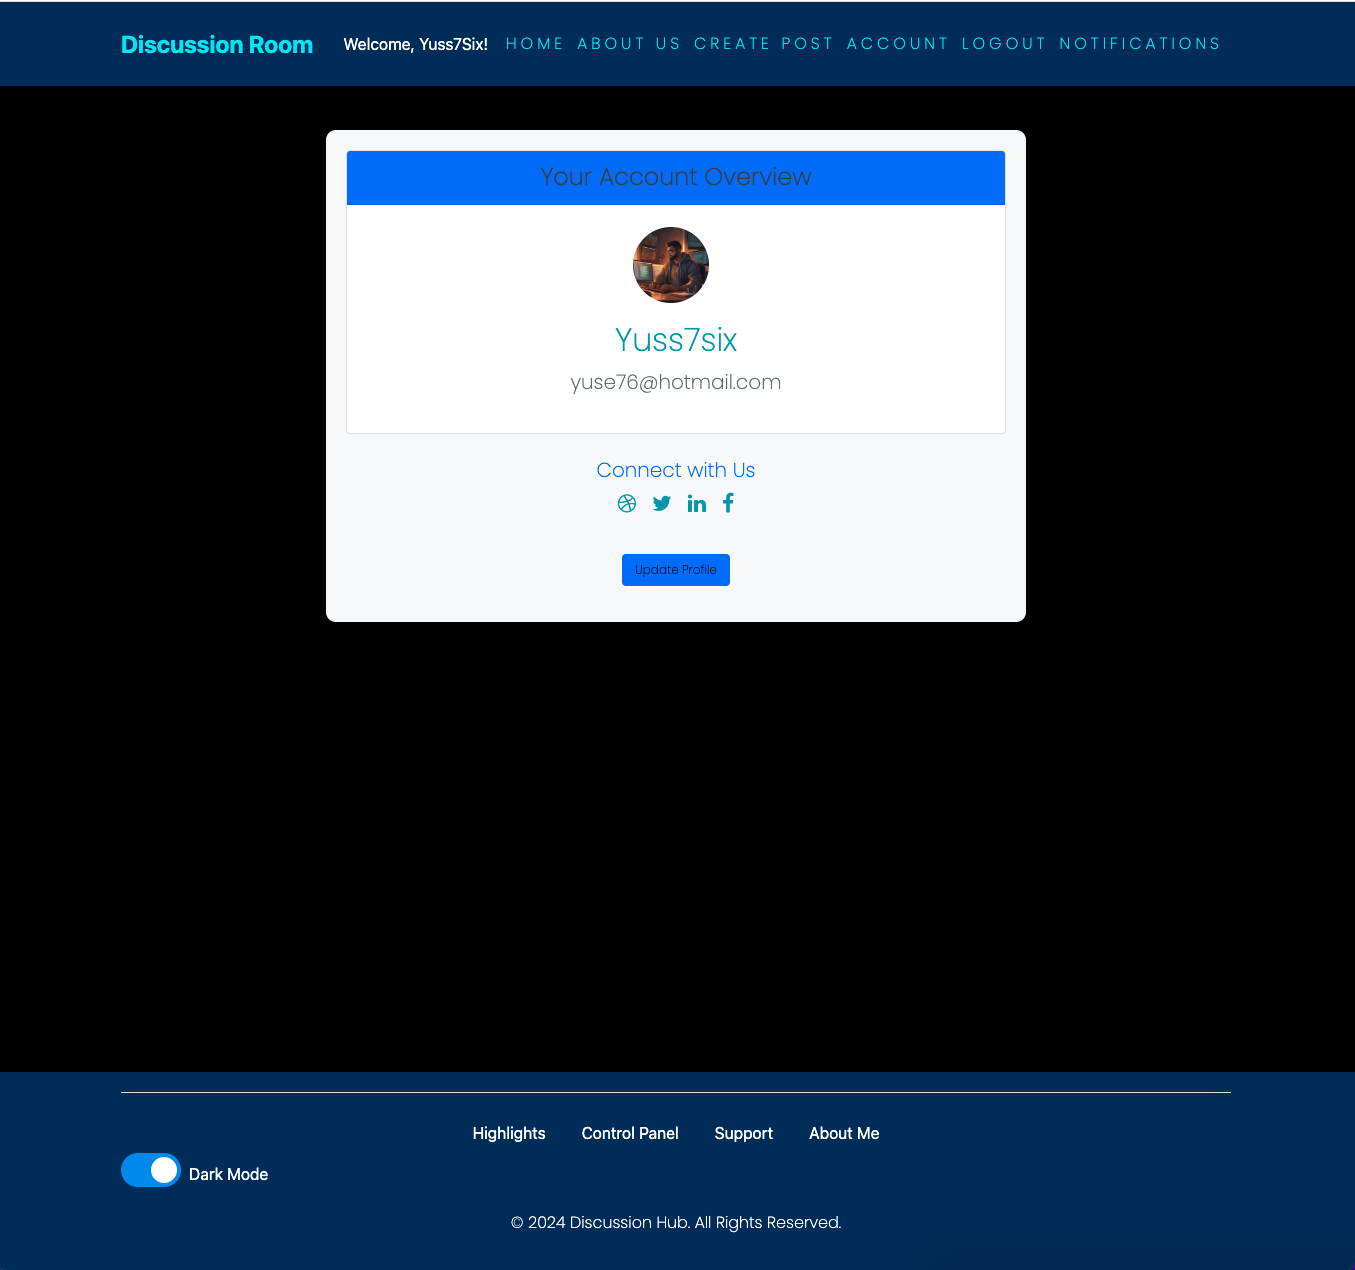
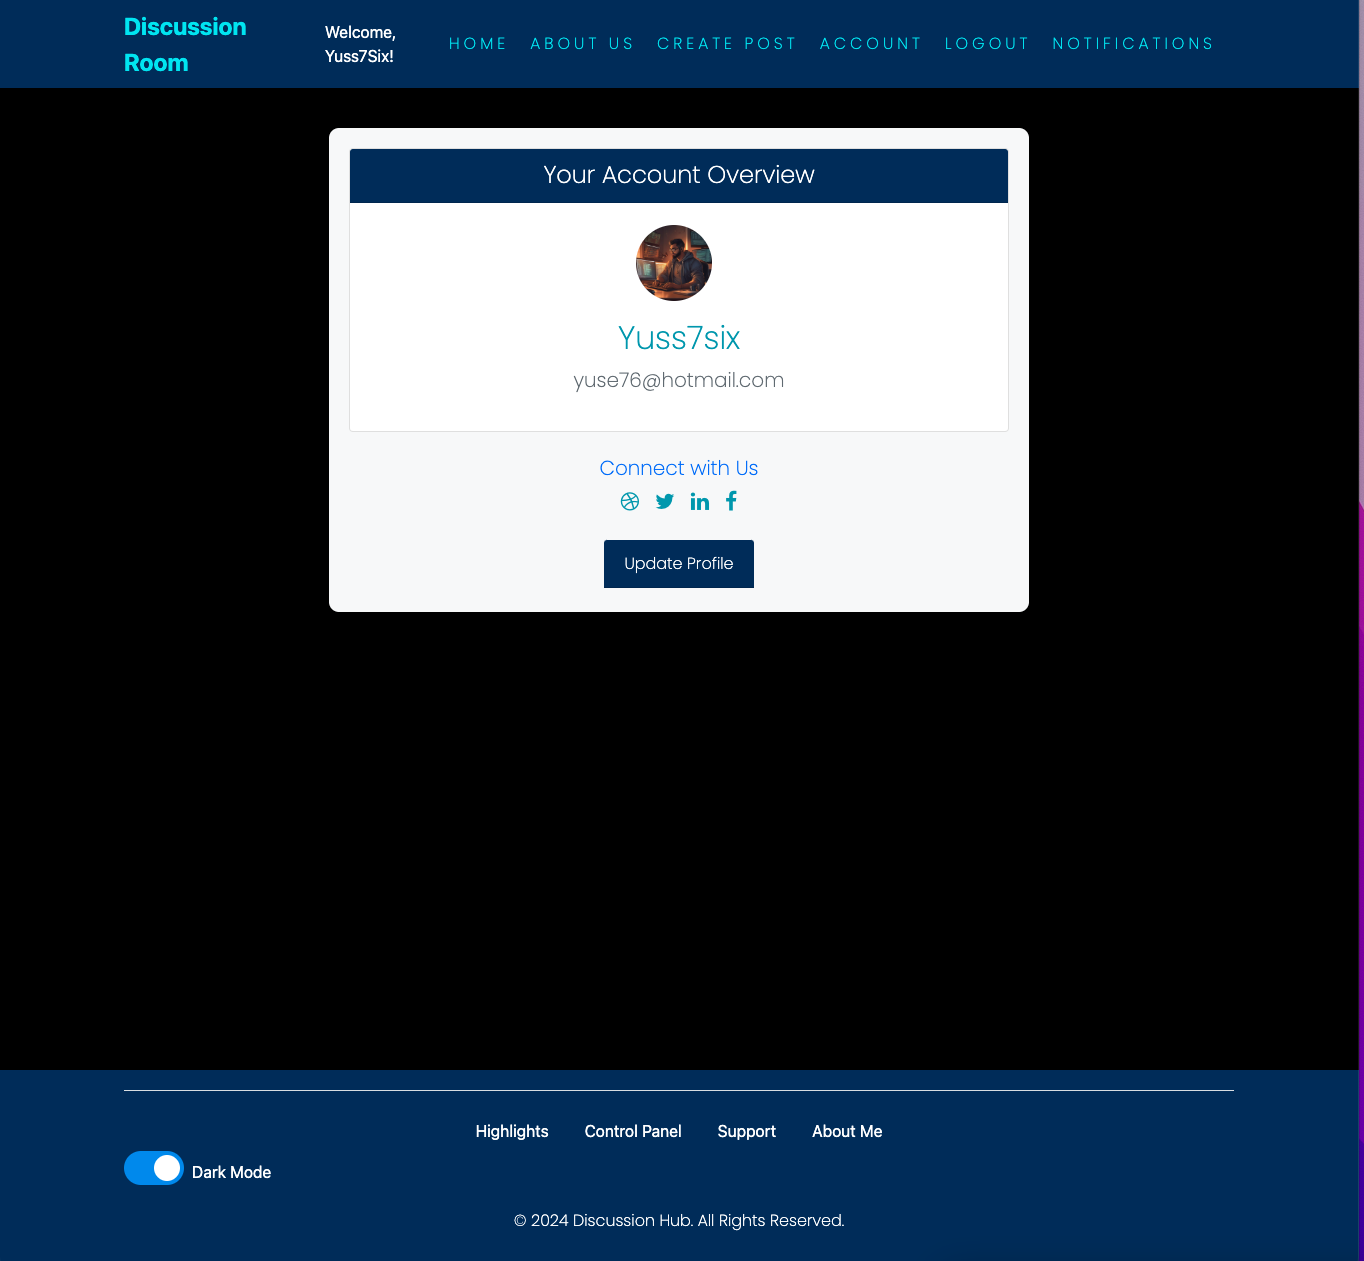
Modify account page dark mode section in the readme file

diff --git a/README.md b/README.md
@@ -1032,7 +1032,7 @@ To inspire users, two motivational phrases are included, creating a positive atm
 
 ## Account Page (Dark Mode)
 
-The Account Page in dark mode features a visually appealing layout with a main container that has a soft white background. Within this container, there is another internal container, also in white, which includes a bar with a blue background displaying the text "Your Account Overview" in black letters.
+The Account Page in dark mode features a visually appealing layout with a soft white background. Within this container, there is another internal container, also in white, which includes a bar with a background color matching the navbar and footer. The text "Your Account Overview" is displayed in white for better visibility against the blue background.
 
 The user’s avatar is presented in a circular format, accompanied by the username displayed in blue and the email address in grey for clear differentiation. 
 
